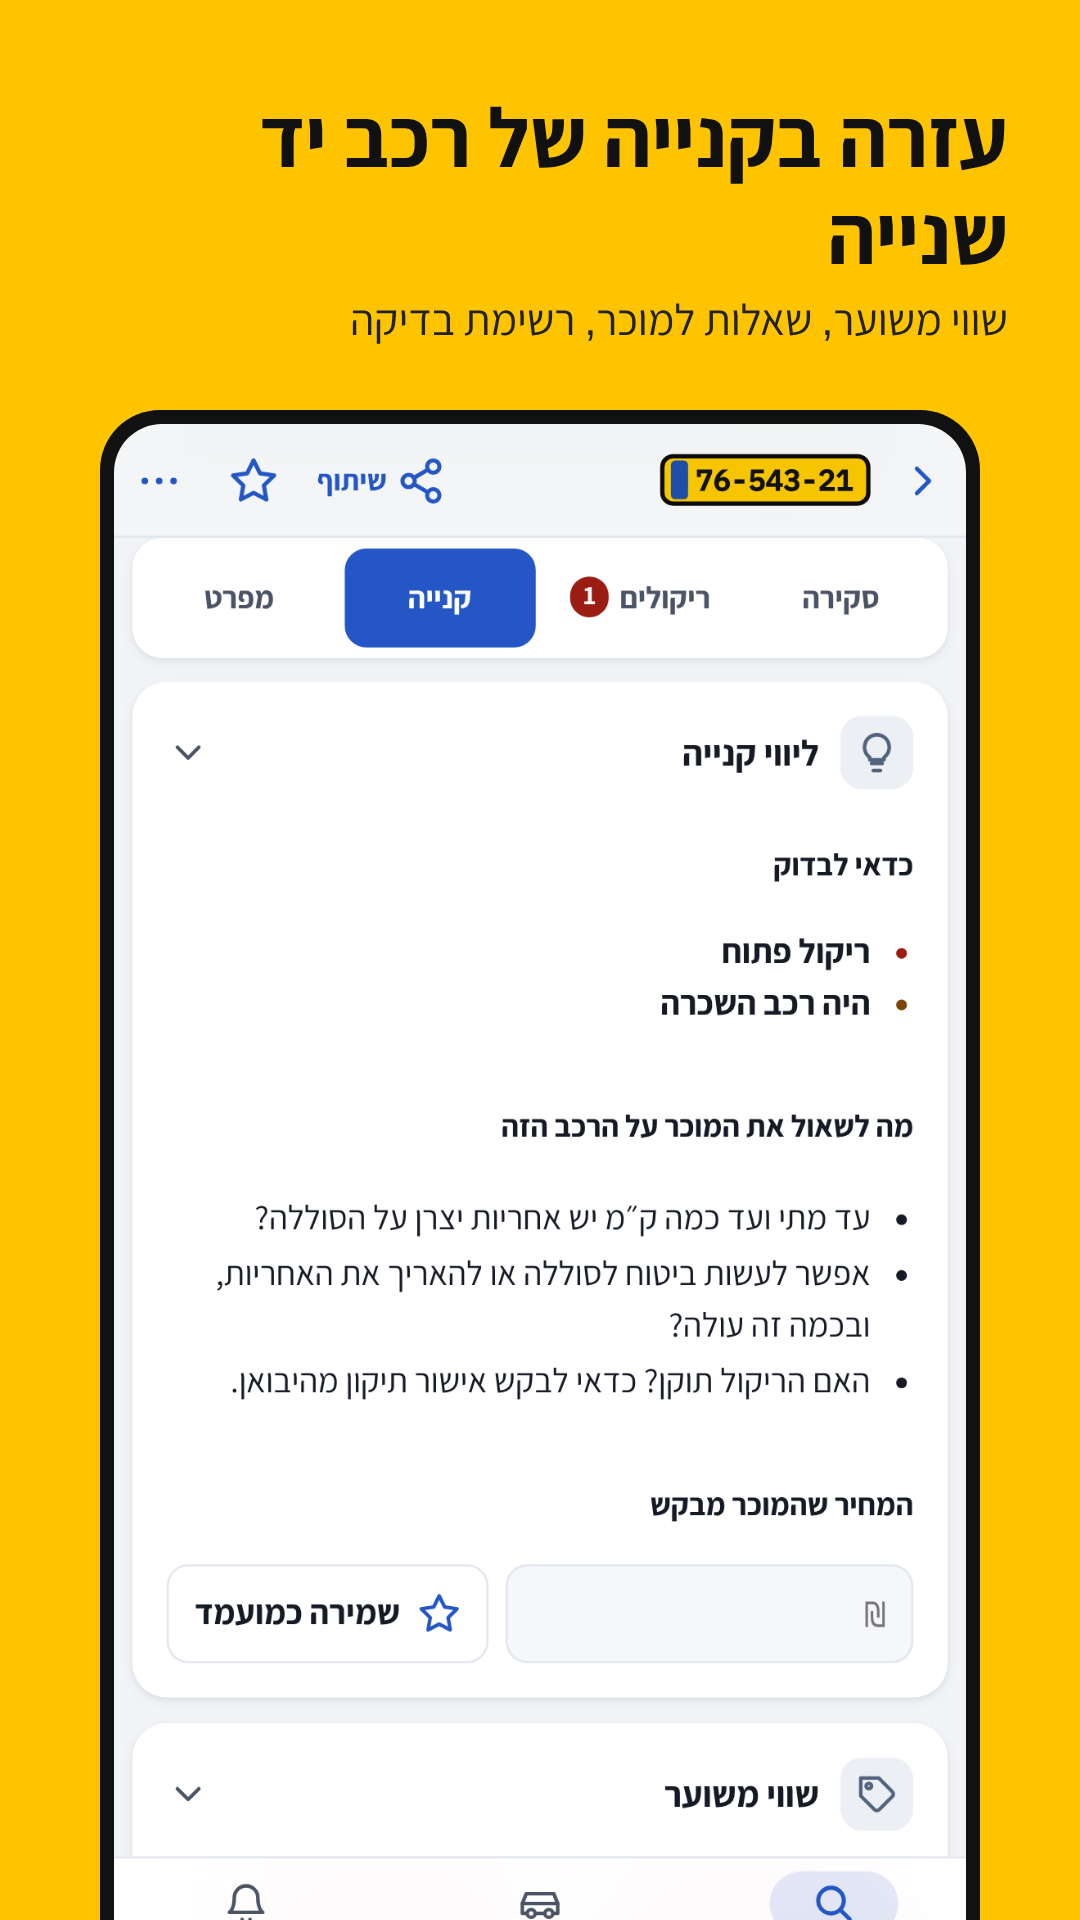
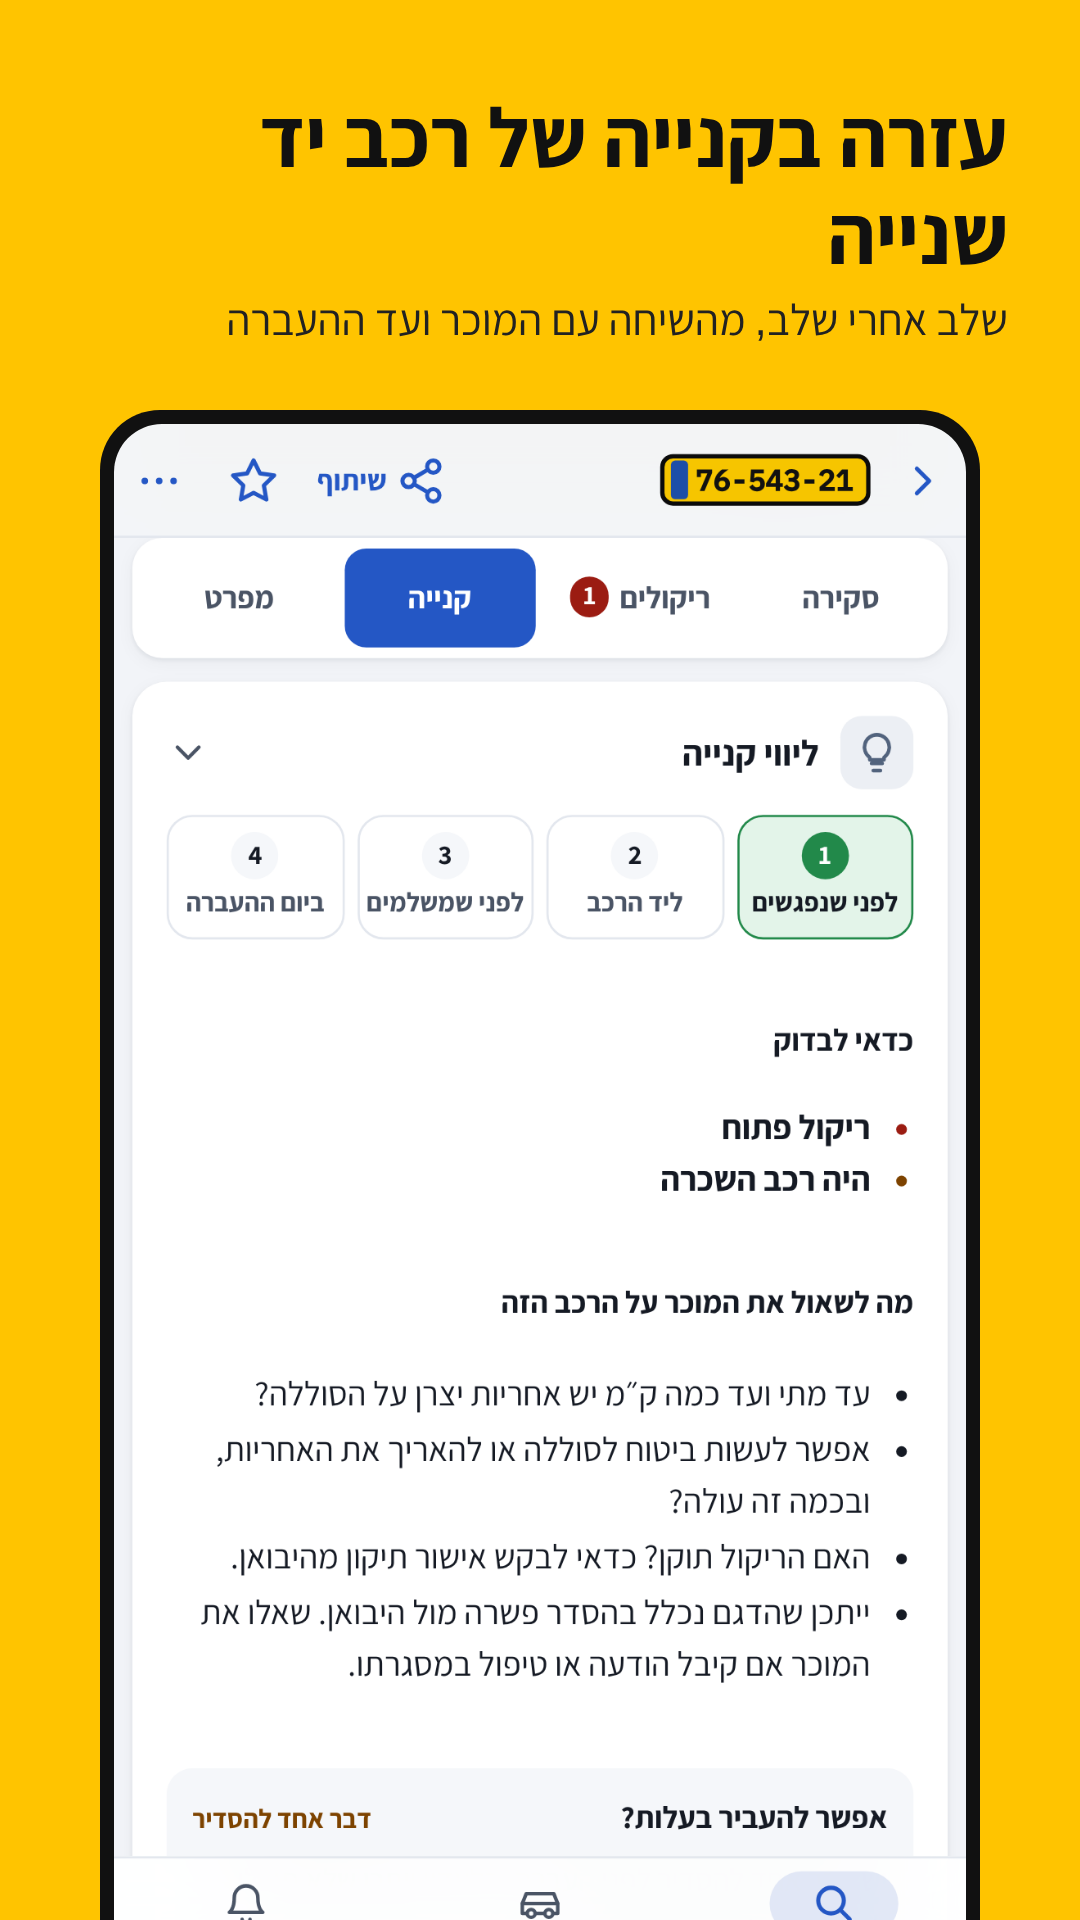
1.39.0: version, shell, release notes, store description and screenshots
Store screenshots 01 to 08 retaken on this tree with the example plates 76-543-21 and 44-444-44 (05 shows the buy stages; the header shows the one share button). Two full-description lines now describe the buy stages and the one share button.

Claude-Session: https://claude.ai/code/session_01G2VWCHH5uJQtnG6uoSgYu6

diff --git a/sw.js b/sw.js
@@ -1,7 +1,7 @@
 /* Luchit app shell for the web version. Stale-while-revalidate for the page, cache-first for icons.
    Lookups (data.gov.il, JSON data files, model pages) are never cached here, so numbers are always fresh.
    Bump SHELL with APP_VERSION at each release: the old cache is deleted on activate. */
-const SHELL = "luchit-shell-1.38.5";
+const SHELL = "luchit-shell-1.39.0";
 const DATA = "luchit-data-";   // the page's own catalogue cache (index.html cachedJson): never deleted here
 const PRECACHE = ["/", "/icon-192.png", "/icon-512.png", "/apple-touch-icon.png", "/manifest.json", "/lib/fonts/assistant-hebrew-400-normal.woff2", "/lib/fonts/assistant-hebrew-700-normal.woff2", "/lib/fonts/assistant-latin-400-normal.woff2", "/lib/fonts/assistant-latin-700-normal.woff2", "/lib/fonts/ibm-plex-mono-latin-500-normal.woff2"];
 

diff --git a/index.html b/index.html
@@ -1211,7 +1211,7 @@ body:has(.cfab) main{padding-bottom:calc(140px + env(safe-area-inset-bottom,0px)
 <script>
 "use strict";
 /*! © 2026 Dudu Sabag. All rights reserved. */
-const APP_VERSION = "1.38.5";
+const APP_VERSION = "1.39.0";
 /* a phone whose page storage is still empty here is a new install (an app update keeps the storage): read before anything is stored */
 const FRESH = (() => { try { return localStorage.length === 0; } catch { return false; } })();
 const SITE = "https://luchit.app/";
